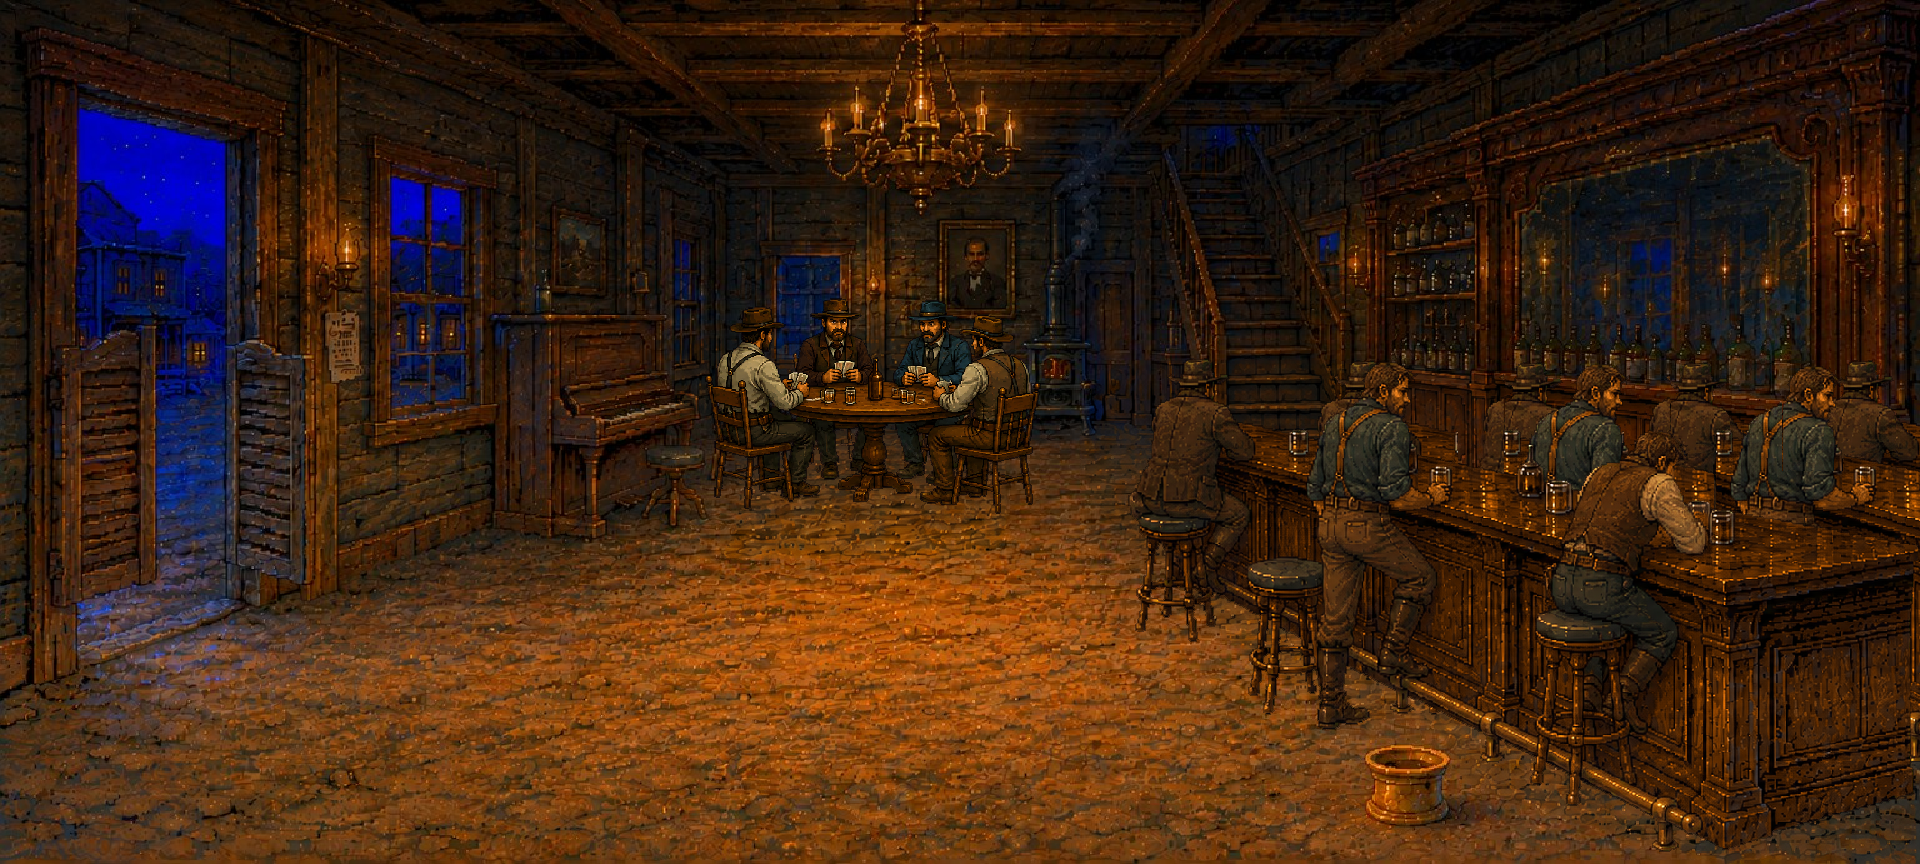
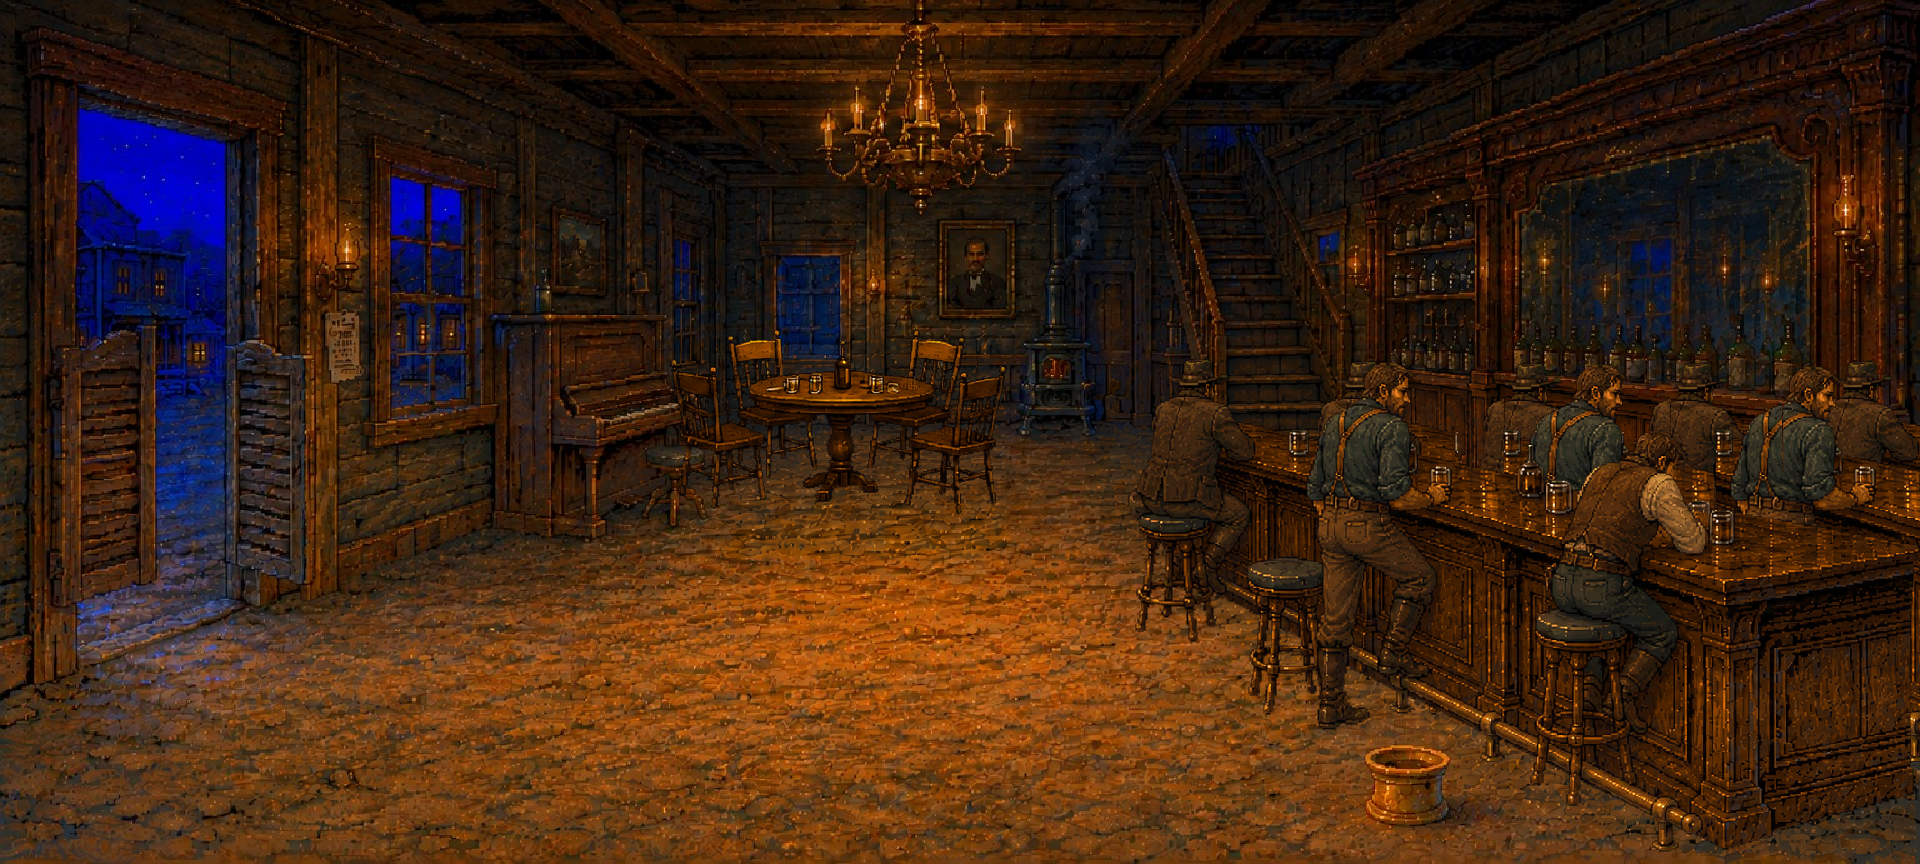
Each card player moves on his own beat, not on a loop
Tyler: the motion is right, but playing it on a loop is not -- each movement
should happen independently, on its own beat, with two people coinciding only
occasionally.

THE PIXEL-LOCK IS WHAT MADE IT POSSIBLE. Asking for bodies pixel-identical
between poses AS THE FIRST INSTRUCTION rather than the fourth changed the
sheet from whole-figure differences of 8 to 18 down to 1.1, 2.7 and 1.3. That
is not a cosmetic improvement: it is what allows the men to be CUT APART. With
bodies drifting, no column was stable enough to cut on; locked, each sprite
changes in exactly one pose and is byte-identical -- 0.0 -- in the other two.

Three sprites, cut on columns identical in every pose: the far-left man (turns
his head right), the dark-coated man and his still neighbour (lifts his glass
and drinks), the right-hand man (turns his head left).

A BEAT INSTEAD OF A RATE. `rate` cycles evenly through every frame, which is
exactly the loop he rejected. `beatEvery` holds frame 0 and runs the rest once
every few seconds: 9s, 14s and 11s here, so they drift in and out of
coincidence on their own. Measured over eleven seconds of the running game --
man 1 moves at second 2, man 2 and man 4 both at second 5.

The furniture is a fixed layer in the plate and the tabletop is the foreground,
so forearms pass under it and nothing a man does can disturb anything he is not
part of.

AND THE LANDING-MAN TEST HAS NOW BEEN REWRITTEN THREE TIMES for three ways of
[…]

Changed region(s): [[0.3438, 0.3438, 0.5625, 0.5938]]

diff --git a/tests/interface.test.ts b/tests/interface.test.ts
@@ -858,8 +858,18 @@ test('a stub exit still transits, and ruling 20 keeps the landing man still', as
   // What ruling 20 binds is that a composed crowd moves and the man on the
   // landing does not, so that is what is asserted, whichever way the room
   // animates.
+  // THREE WAYS A ROOM CAN ANIMATE ITS CROWD, and this test has now been
+  // rewritten for each of them in turn: an idle layer, whole-plate frames, and
+  // ambient figures with their own beats. Naming the mechanisms is still
+  // wrong, but the alternative -- asserting nothing -- is worse, so the list
+  // grows and the RULING stays the thing being checked.
+  const ambientRooms = new Set(
+    [...(content.ambient?.values() ?? [])].map((npc) => npc.room),
+  );
   const crowded = [...content.rooms.values()].filter(
-    (room) => room.idles?.figures?.length || room.backgroundFrames?.length,
+    (room) => room.idles?.figures?.length
+      || room.backgroundFrames?.length
+      || ambientRooms.has(room.id),
   );
   assert.ok(crowded.length >= 1, 'at least one composed room animates its crowd');
   for (const room of crowded) {

diff --git a/engine/render/Renderer.ts b/engine/render/Renderer.ts
@@ -1284,6 +1284,20 @@ export class Renderer {
   }
 
   private ambientFrame(declared: NonNullable<AmbientFile['sprite']>, phase: number): number {
+    // A BEAT: at rest on frame 0, and every `beatEvery` seconds the rest of
+    // the frames play once. Different intervals per figure mean they coincide
+    // only by chance, which is the difference between a room of people and a
+    // chorus line.
+    if (declared.beatEvery) {
+      const span = declared.beatSeconds ?? 1.2;
+      const t = this.clock + phase * declared.beatEvery;
+      const into = t - Math.floor(t / declared.beatEvery) * declared.beatEvery;
+      if (into >= span) return 0;
+      const rest = declared.frames.length - 1;
+      if (rest <= 0) return 0;
+      return 1 + Math.min(rest - 1, Math.floor((into / span) * rest));
+    }
+
     const idleFrames = declared.breaks?.length
       ? Math.min(2, declared.frames.length) : declared.frames.length;
     const sway = Math.floor((this.clock * declared.rate + phase) * 2) % idleFrames;

diff --git a/engine/core/types.ts b/engine/core/types.ts
@@ -350,6 +350,21 @@ export interface AmbientFile {
      * ambient character speaks, whatever prompted it.
      */
     breaksThatSpeak?: number[];
+    /**
+     * A BEAT instead of a loop: hold frame 0, show the rest briefly, hold again.
+     *
+     * Tyler, on a four-frame cycle: the motion is right but playing it on a
+     * loop is not -- each movement should happen independently, on its own
+     * beat, with two people coinciding only occasionally. `rate` cycles evenly
+     * through every frame, which is exactly the loop he rejected.
+     *
+     * With `beatEvery` set, the figure sits on frame 0 and every `beatEvery`
+     * seconds runs frames 1..n once, taking `beatSeconds` over it. Give each
+     * figure a different interval and they drift in and out of coincidence on
+     * their own, which is what a room of people looks like.
+     */
+    beatEvery?: number;
+    beatSeconds?: number;
     /** Seconds between breaks, before the per-character jitter. */
     breakEvery?: number;
   };
